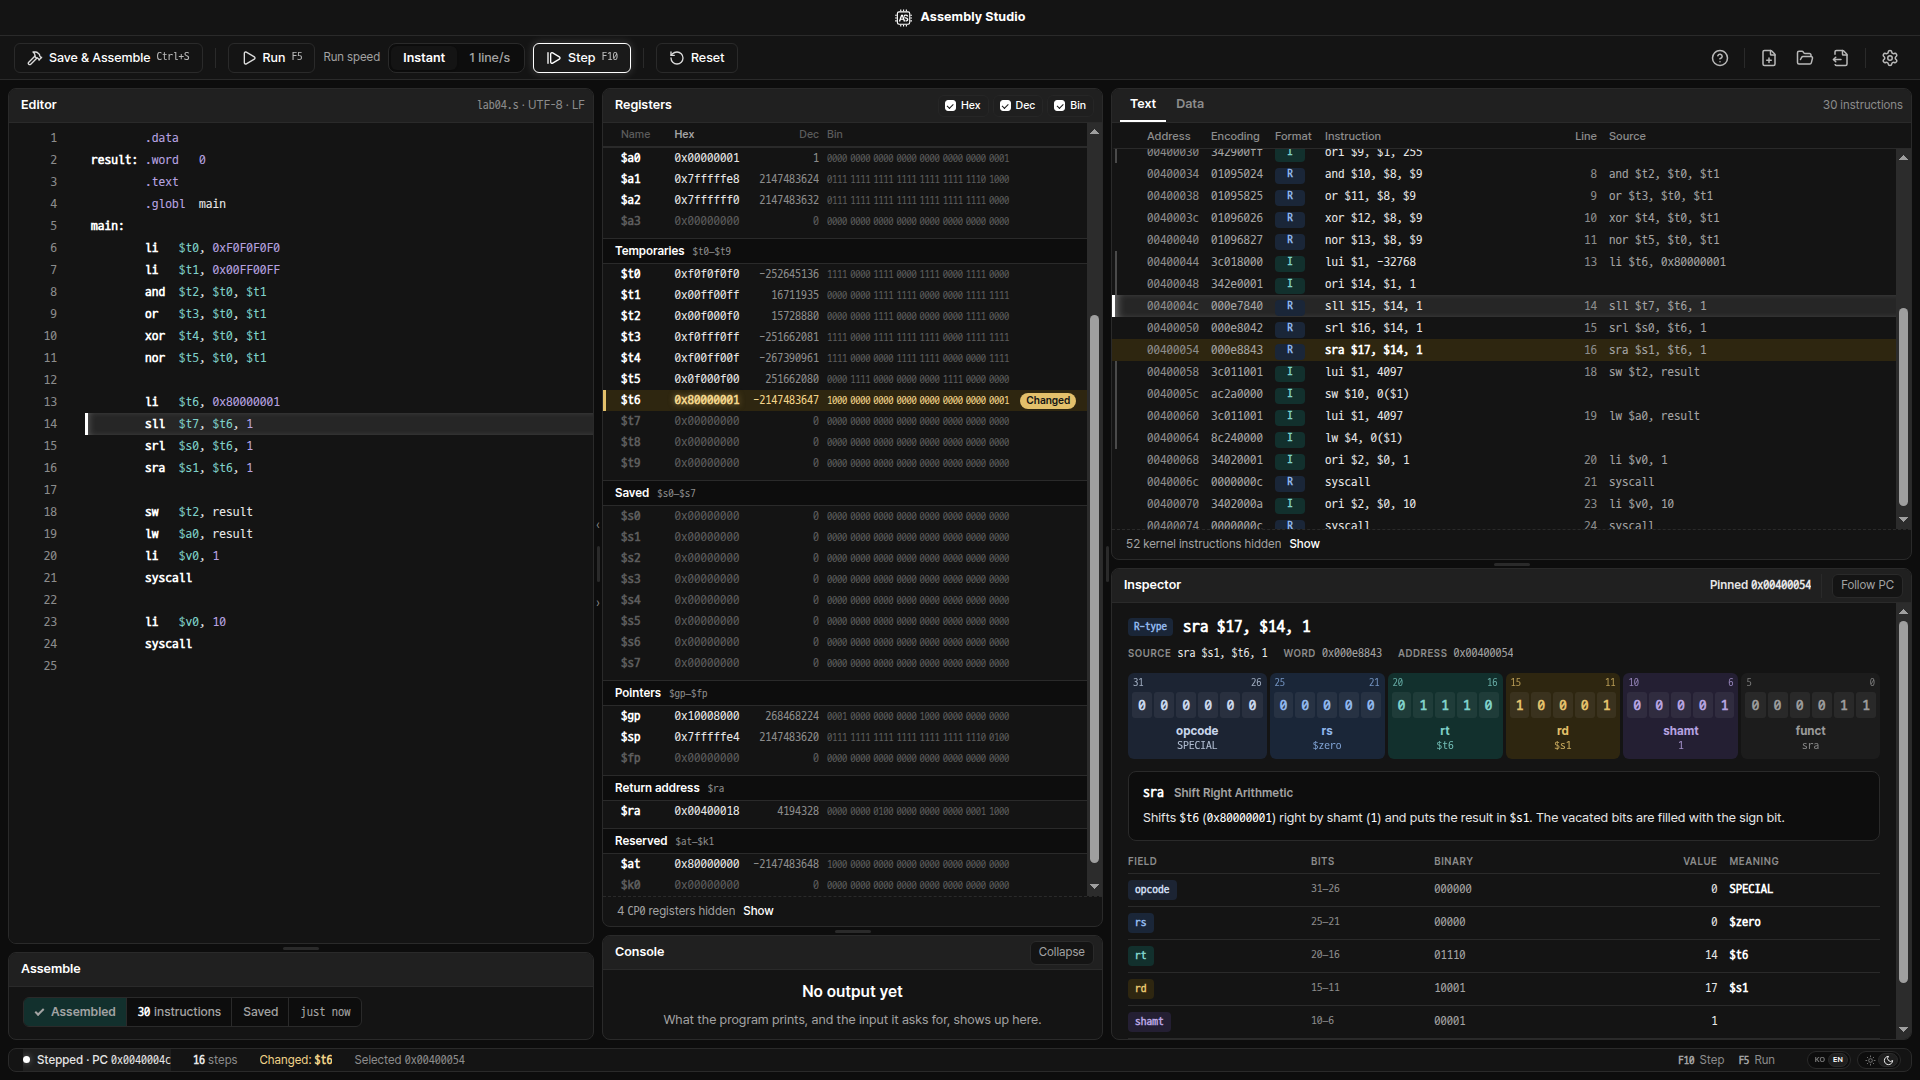
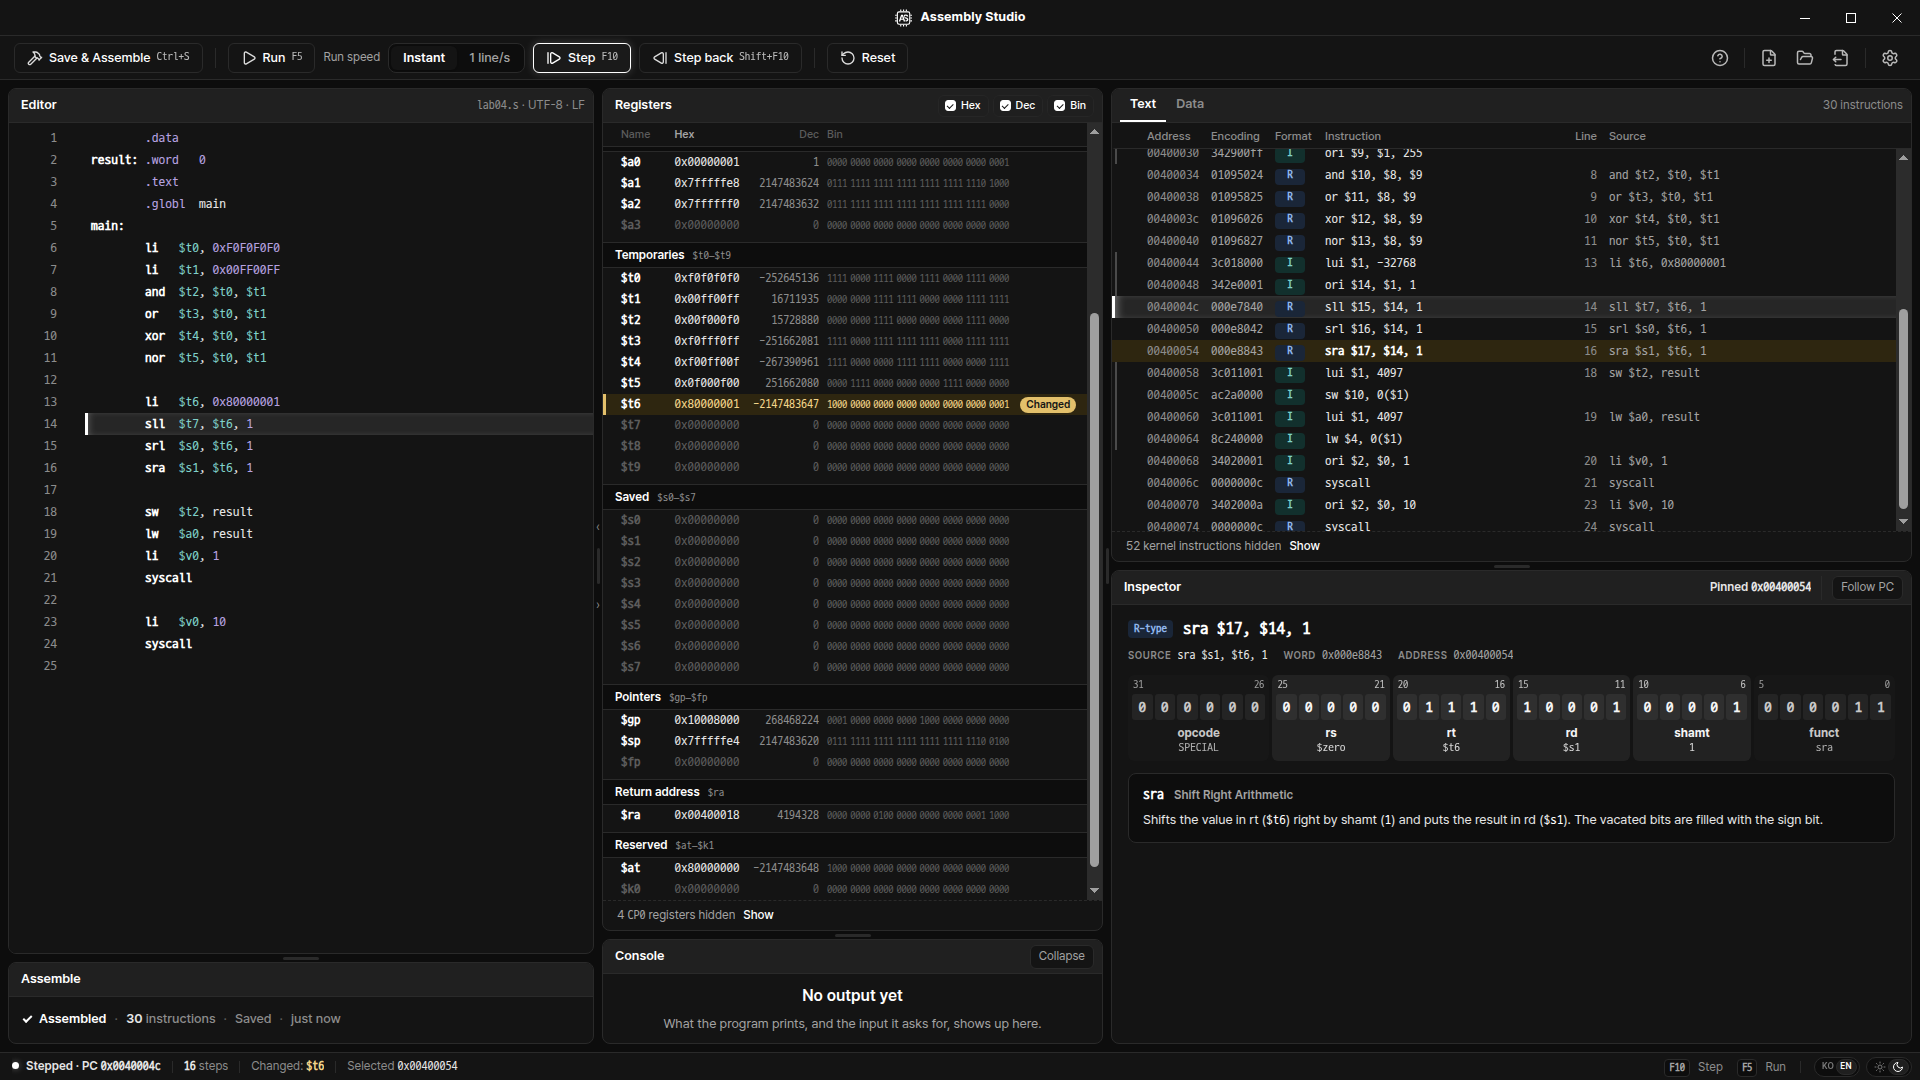
README: the Inspector's explanations, which words are English in both languages; new screenshots, a clean error example

diff --git a/electron/tests/e2e/doc-shots.ts b/electron/tests/e2e/doc-shots.ts
@@ -5,7 +5,7 @@
    start: start.png; mips: work-mips.png and errors.png; riscv:
    work-riscv-light.png; tutorial: tutorial.png (after node tools/build-ui.ts). */
 
-import { launch, openAndAssemble, sample, settled, textRow } from './harness.ts';
+import { launch, openAndAssemble, program, sample, settled, textRow } from './harness.ts';
 const out = process.argv[2]; const which = process.argv[3];
 const size = { width: 1920, height: 1080 };
 const setTheme = async (p: any, t: string) => { await p.evaluate((t: string) => { document.documentElement.dataset.theme = t; window.dispatchEvent(new CustomEvent('themechange', { detail: t })); }, t); await p.waitForTimeout(700); };
@@ -21,7 +21,10 @@ if (which === 'start') {
     await (await textRow(p, '0x00400054')).locator('.dis').click();
     await p.mouse.move(0, 0); await p.waitForTimeout(400);
     await p.screenshot({ path: `${out}/work-mips.png` });
-    await openAndAssemble(r, sample(r.dir, 'tests/samples/syntax-error-midfile.s', 'errors.s'));
+    // A short program with one typo: the error, its hint and Go to line.
+    await openAndAssemble(r, program(r.dir, 'errors.s', [
+      '# Adds 5 to itself and ends.', '        .text', '        .globl main', 'main:',
+      '        li      $t0, 5', '        addd    $t1, $t0, $t0', '        li      $v0, 10', '        syscall', ''].join('\n')));
     await p.waitForTimeout(500);
     await p.screenshot({ path: `${out}/errors.png` });
   } finally { await r.close(); }

diff --git a/README.md b/README.md
@@ -111,14 +111,16 @@ pre-releases either: `release.yml` builds every installer from them.
 - **Text and Data.** The **Text** tab lists the assembled instructions: address, machine code, format and the source
   line. The **Data** tab shows the data and the stack in memory. **Hex**, **Dec** and **Bin** in the Data tab's header
   choose the radix of the values.
-- **Inspector.** Splits one instruction into its 32-bit fields and shows each field's name, value and meaning (the
-  explanation is in the language you chose). Click an instruction in the Text tab to keep the Inspector on it; **Follow PC** (or
+- **Inspector.** Splits one instruction into its 32 bits, grouped into its fields, each with its name and meaning,
+  and says what the instruction does in the same way for every use of it: the fields by name with this instruction's
+  register or number, for example "rt (`$a0`) … shamt (`2`) … rd (`$v0`)" (in the language you chose). Click an instruction in the Text tab to keep the Inspector on it; **Follow PC** (or
   `Esc`) makes it follow the current instruction again.
 - **Console.** The program's output, and the box for its input.
 - **Light and dark.** The sun/moon switch at the bottom right (on the first screen, the card's bottom-right corner).
 - **Language.** The KO/EN switch beside it (on the first screen, the card's bottom-left corner), or Settings ›
-  **Language**: Korean or English for the first screen, the tutorial, the instruction explanations, the dialogs and
-  the tutorial's example comments. The panels, buttons and status line are in English in both. It starts in the
+  **Language**: Korean or English for the first screen, the tutorial, the instruction explanations, the assembler's
+  errors and hints, the dialogs and the tutorial's example comments. The panels, buttons, the Assemble panel's state
+  and the status line are in English in both. It starts in the
   system's language (Korean on a Korean system, English otherwise).
 - **Resizing.** Drag the border between two panels to resize them. Double-click a border to return to the default size.
 - **Settings.** The gear button in the toolbar:
